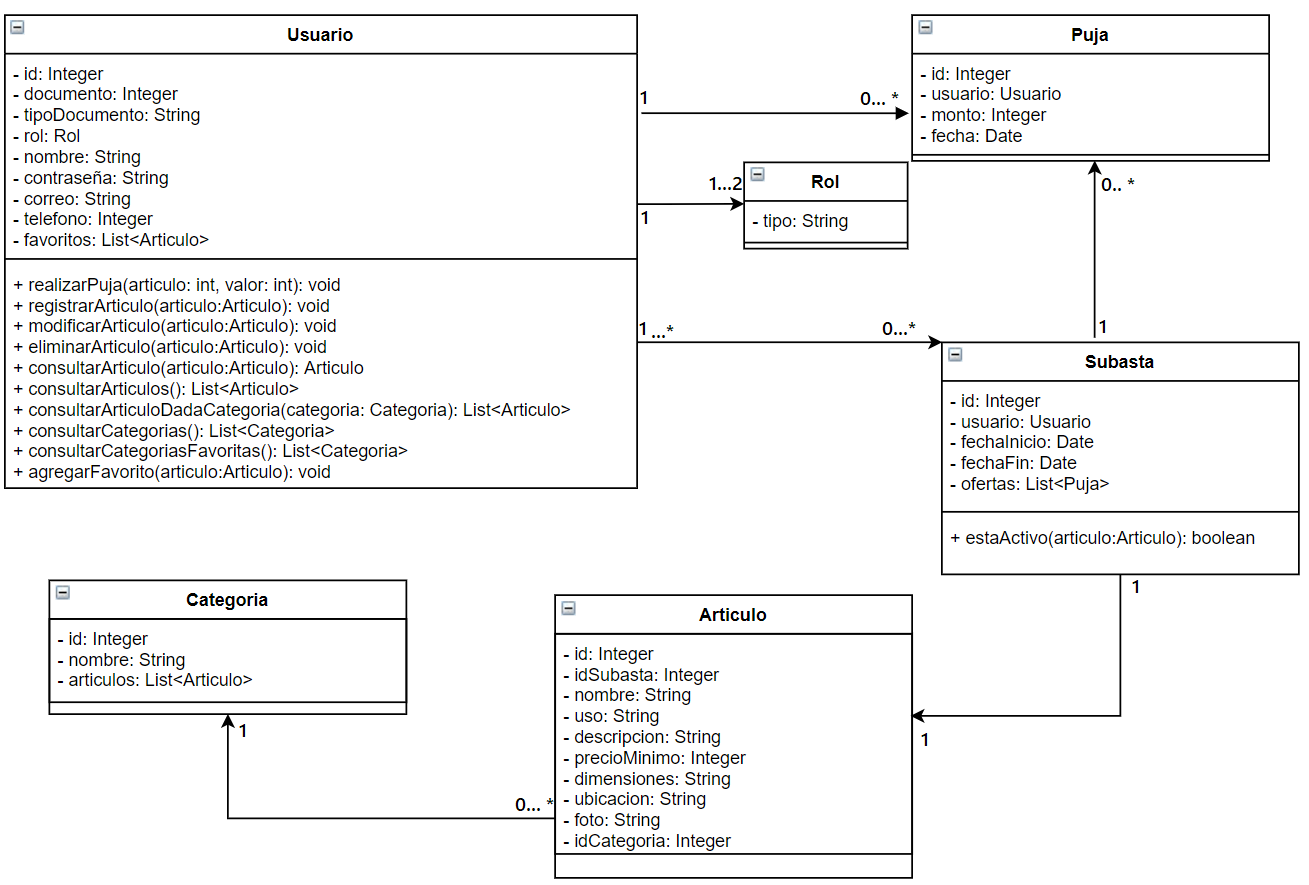
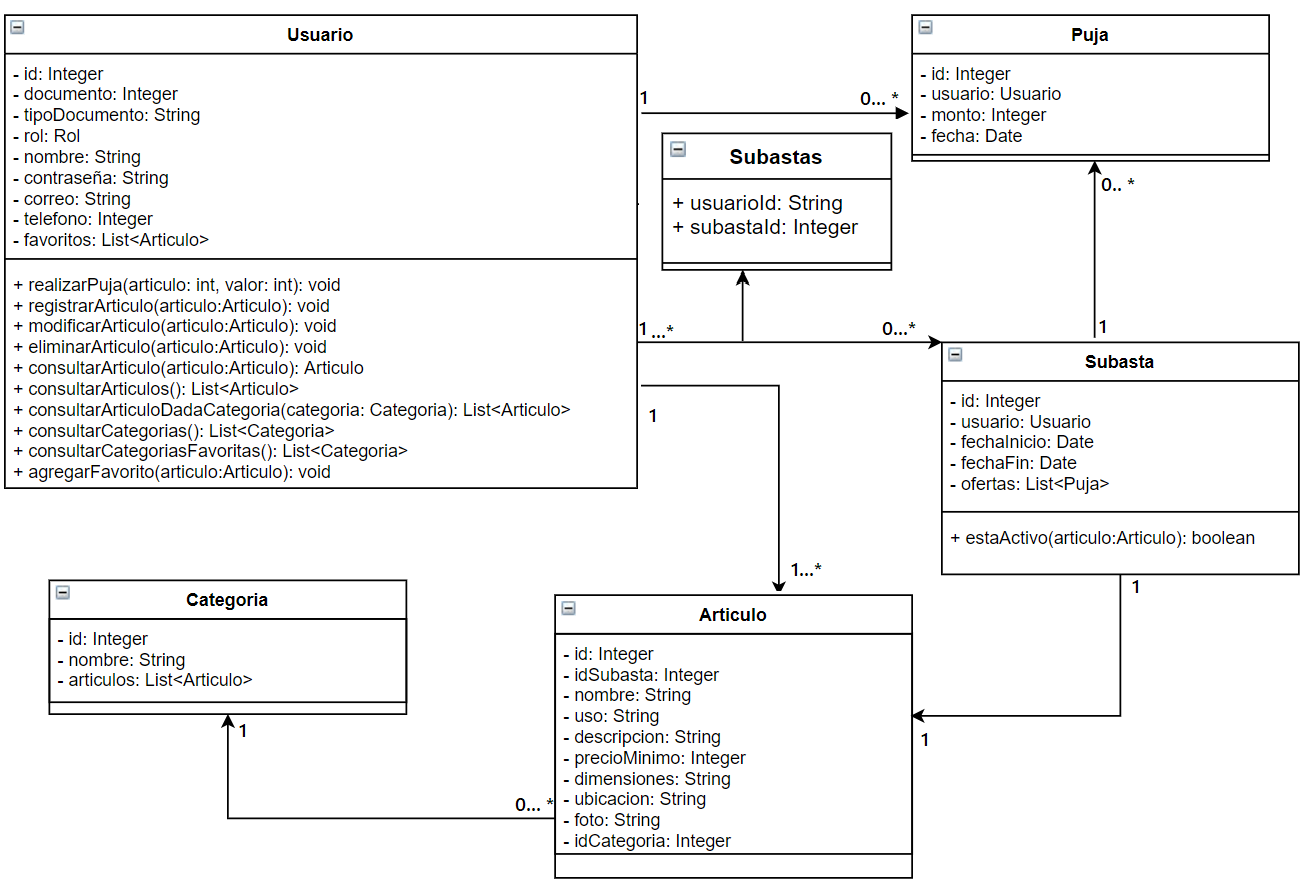
faltan constructores exactos

Changed region(s): [[0.4889, 0.122, 0.7028, 0.3356], [0.4889, 0.4271, 0.5806, 0.4576], [0.5806, 0.6407, 0.6112, 0.6712]]

diff --git a/src/main/java/edu/eci/arsw/saleit/model/User.java b/src/main/java/edu/eci/arsw/saleit/model/User.java
@@ -17,7 +17,8 @@ public class User {
     private String document;
 
     @Column(name="documenttype")
-    private String documentType;
+    @Enumerated(EnumType.STRING)
+    private TipoDocumento documentType;
 
     @Column(name="phone")
     private String phone;
@@ -28,16 +29,13 @@ public class User {
     @Column(name="password")
     private String password;
 
-    @Enumerated(EnumType.STRING)
-    private Role rol;
-
     @OneToMany
     private List<Article> favorites;
 
     @OneToMany
     private List<Auction> auctions;
 
-    public User(long numeroDeCuenta, String document, String documenttype, String name, String phone, String email, String password, Role rol, List<Article> favorites, List<Auction> auctions) {
+    public User(long numeroDeCuenta, String document, TipoDocumento documenttype, String name, String phone, String email, String password, List<Article> favorites, List<Auction> auctions) {
         this.numeroDeCuenta = numeroDeCuenta;
         this.document = document;
         this.documentType = documenttype;
@@ -45,7 +43,6 @@ public class User {
         this.phone = phone;
         this.email = email;
         this.password = password;
-        this.rol = rol;
         this.favorites = favorites;
         this.auctions = auctions;
     }
@@ -114,14 +111,6 @@ public class User {
         this.numeroDeCuenta = numeroDeCuenta;
     }
 
-    public Role getRol() {
-        return rol;
-    }
-
-    public void setRol(Role rol) {
-        this.rol = rol;
-    }
-
     public String getName() {
         return name;
     }
@@ -138,11 +127,11 @@ public class User {
         this.document = document;
     }
 
-    public String getDocumentType() {
+    public TipoDocumento getDocumentType() {
         return documentType;
     }
 
-    public void setDocumentType(String documenttype) {
+    public void setDocumentType(TipoDocumento documenttype) {
         this.documentType = documenttype;
     }
 
@@ -176,7 +165,6 @@ public class User {
         if (o == null || getClass() != o.getClass()) return false;
         User user = (User) o;
         return numeroDeCuenta == user.numeroDeCuenta &&
-                rol == user.rol &&
                 Objects.equals(name, user.name) &&
                 Objects.equals(document, user.document) &&
                 Objects.equals(documentType, user.documentType) &&
@@ -187,14 +175,13 @@ public class User {
 
     @Override
     public int hashCode() {
-        return Objects.hash(numeroDeCuenta, rol, name, document, documentType, password, email, favorites);
+        return Objects.hash(numeroDeCuenta, name, document, documentType, password, email, favorites);
     }
 
     @Override
     public String toString() {
         return "User{" +
                 "id=" + numeroDeCuenta +
-                ", rol=" + rol +
                 ", name='" + name + '\'' +
                 ", document='" + document + '\'' +
                 ", documentType='" + documentType + '\'' +

diff --git a/src/main/java/edu/eci/arsw/saleit/model/Auctions.java b/src/main/java/edu/eci/arsw/saleit/model/Auctions.java
@@ -1,0 +1,40 @@
+package edu.eci.arsw.saleit.model;
+
+import javax.persistence.Entity;
+import javax.persistence.Id;
+import javax.persistence.OneToOne;
+import javax.persistence.Table;
+import java.util.Date;
+
+@Entity
+@Table(name="subastas")
+public class Auctions {
+
+    @Id
+    private String usuarioid;
+    @Id
+    private long subastaid;
+
+    public Auctions(String usuarioid, long subastaid) {
+        this.usuarioid = usuarioid;
+        this.subastaid = subastaid;
+    }
+
+    public Auctions() {}
+
+    public String getUsuarioid() {
+        return usuarioid;
+    }
+
+    public void setUsuarioid(String usuarioid) {
+        this.usuarioid = usuarioid;
+    }
+
+    public long getSubastaid() {
+        return subastaid;
+    }
+
+    public void setSubastaid(long subastaid) {
+        this.subastaid = subastaid;
+    }
+}

diff --git a/src/main/java/edu/eci/arsw/saleit/model/Bid.java b/src/main/java/edu/eci/arsw/saleit/model/Bid.java
@@ -2,6 +2,7 @@ package edu.eci.arsw.saleit.model;
 
 import javax.persistence.*;
 import java.util.Date;
+import java.sql.Timestamp;
 
 @Entity
 @Table(name="puja")
@@ -12,9 +13,9 @@ public class Bid {
     @OneToOne
     private User usuario;
     private long amount;
-    private Date fecha;
+    private Timestamp fecha;
 
-    public Bid(long id, User usuario, long amount, Date fecha) {
+    public Bid(long id, User usuario, long amount, Timestamp fecha) {
         this.id = id;
         this.usuario = usuario;
         this.amount = amount;
@@ -47,11 +48,11 @@ public class Bid {
         this.amount = amount;
     }
 
-    public Date getDate() {
+    public Timestamp getDate() {
         return fecha;
     }
 
-    public void setDate(Date fecha) {
+    public void setDate(Timestamp fecha) {
         this.fecha = fecha;
     }
 

diff --git a/src/main/java/edu/eci/arsw/saleit/model/Auction.java b/src/main/java/edu/eci/arsw/saleit/model/Auction.java
@@ -56,7 +56,7 @@ public class Auction {
         this.initDate = initDate;
     }
 
-    public Date getFinDate() {
+    public Timestamp getFinDate() {
         return finDate;
     }
 

diff --git a/src/main/java/edu/eci/arsw/saleit/model/TipoDocumento.java b/src/main/java/edu/eci/arsw/saleit/model/TipoDocumento.java
@@ -1,0 +1,6 @@
+package edu.eci.arsw.saleit.model;
+
+public enum TipoDocumento {
+
+    CC, CE, NIT
+}
